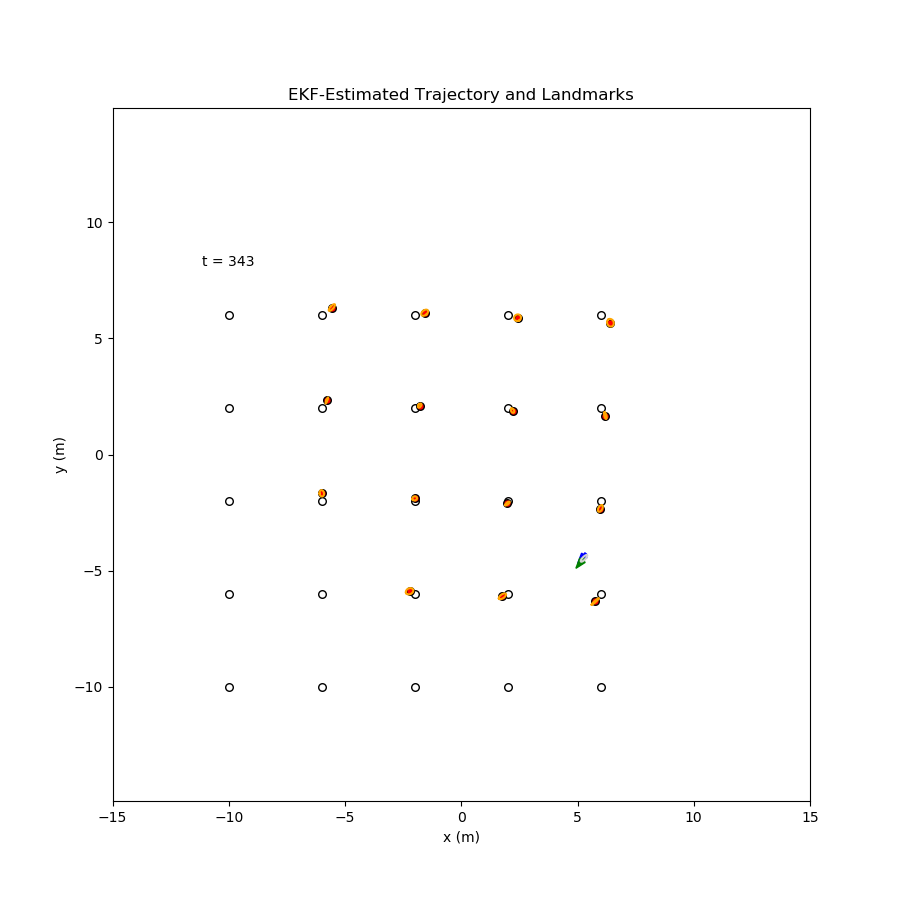
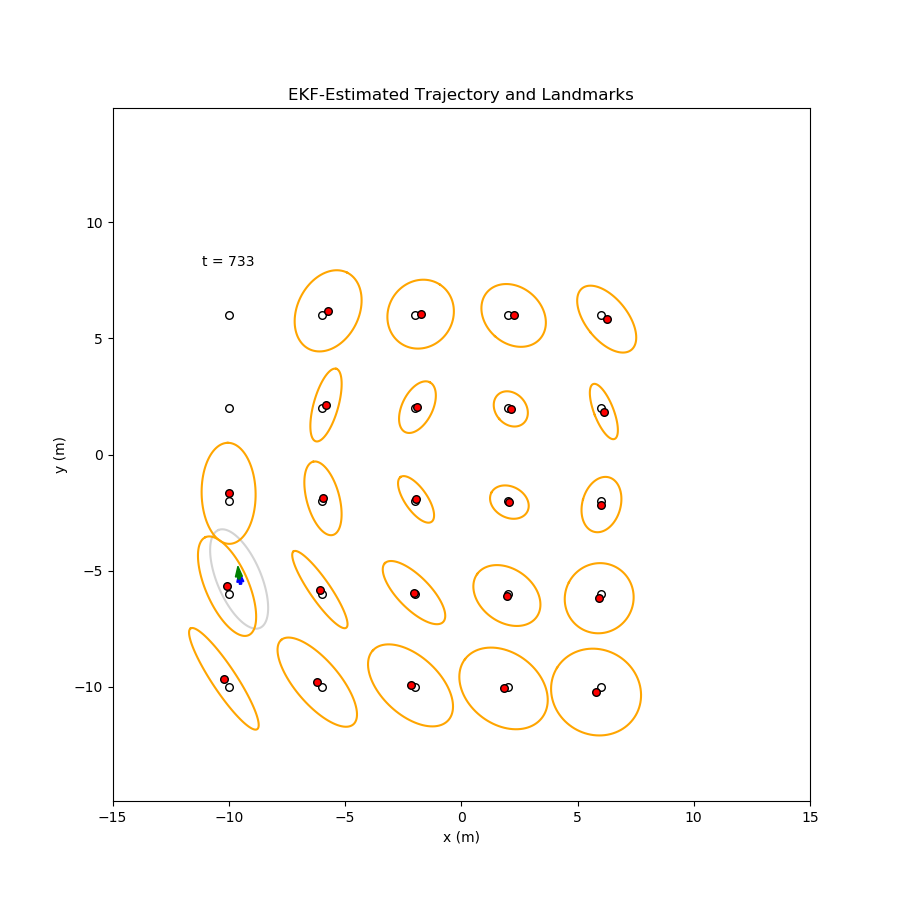
Implement UKF mostly, though it doesn't work. Also simplify EKF insertion step using block().

diff --git a/ekf_ws/src/ukf_pkg/src/ukf.cpp b/ekf_ws/src/ukf_pkg/src/ukf.cpp
@@ -24,6 +24,15 @@ UKF::UKF() {
     this->P_pred(2,2) = 0.005 * 0.005;
     // set jacobians that are constant.
     this->H_w.setIdentity(2,2);
+    // set the sigma stuff to the right starting size.
+    this->X.setZero(3,7);
+    this->Wts = Eigen::VectorXd::Constant(7,(1-this->W_0)/6);
+    this->Wts(0) = this->W_0;
+    // set the expanding process noise.
+    this->Q.setZero(3,3);
+    this->Q(0,0) = this->V(0,0) * cos(this->x_t(2));
+    this->Q(1,1) = this->V(0,0) * sin(this->x_t(2));
+    this->Q(2,2) = this->V(1,1);
 }
 
 // perform a full iteration of the UKF for this timestep.
@@ -33,29 +42,65 @@ void UKF::update(geometry_msgs::Vector3::ConstPtr odomMsg, std_msgs::Float32Mult
 
     ////////////// PREDICTION STAGE /////////////////
     // extract odom.
-    float d_d = odomMsg->x;
-    float d_th = odomMsg->y;
+    float u_d = odomMsg->x;
+    float u_th = odomMsg->y;
 
-    // compute jacobians
-    this->F_x.setIdentity(3+2*this->M, 3+2*this->M);
-    this->F_x(0,2) = -1*d_d*sin(this->x_t(2));
-    this->F_x(1,2) = d_d*cos(this->x_t(2));
-    
-    this->F_v.setZero(3+2*this->M, 2);
-    this->F_v(0,0) = cos(this->x_t(2));
-    this->F_v(1,0) = sin(this->x_t(2));
-    this->F_v(2,1) = 1;
-    // make predictions.
-    this->x_pred = this->x_t;
-    this->x_pred(0) = this->x_t(0) + (d_d+this->v_d)*cos(this->x_t(2));
-    this->x_pred(1) = this->x_t(1) + (d_d+this->v_d)*sin(this->x_t(2));
-    this->x_pred(2) = remainder(this->x_t(2) + d_th + this->v_th, 2*pi);
-    // propagate covariance.
-    this->P_pred = this->F_x * this->P_t * this->F_x.transpose() + this->F_v * this->V * this->F_v.transpose();
+    // get vector length.
+    int n = this->M*2 + 3;
+    // std::cout << "state length n=" << n << std::endl << std::flush;
+    // see if a landmark was been added to the state last iteration.
+    if (this->X.rows() != n) {
+        // expand the size of X matrix.
+        this->X.conservativeResize(n, 1+2*n);
+        // recompute the weights vector.
+        this->Wts.setOnes(1+2*n);
+        this->Wts *= (1-this->W_0)/(2*n);
+        this->Wts(0) = this->W_0;
+        // expand the process noise.
+        this->Q.setZero(n,n);
+        this->Q(0,0) = this->V(0,0) * cos(this->x_t(2));
+        this->Q(1,1) = this->V(0,0) * sin(this->x_t(2));
+        this->Q(2,2) = this->V(1,1);
+    }
+    // get sqrt cov term.
+    this->sqtP = this->P_t;
+    std::cout << "TODO TAKE SQRT OF P_T" << std::endl << std::flush;
+    // this->sqtP = this->P_t.sqrt() * std::sqrt(n/(1-this->W_0));
+    // compute sigma points.
+    this->X.col(0) = this->x_t;
+    for (int i=1; i<=n; ++i) {
+        this->X.col(i) = this->x_t + this->sqtP.col(i-1);
+    }
+    for (int i=1; i<=n; ++i) {
+        this->X.col(i+n) = this->x_t - this->sqtP.col(i-1);
+    }
+    // std::cout << "Computed sigma pts:\n" << this->X << std::endl << std::flush;
+
+    // propagate sigma vectors with motion model f.
+    this->X_pred.setZero(n,2*n+1);
+    for (int i=0; i<2*n+1; ++i) {
+        this->X_pred.col(i) = motionModel(this->X.col(i), u_d, u_th);
+    }
+    // std::cout << "Propagated sigma pts:\n" << this->X_pred << std::endl << std::flush;
+    // compute state mean prediction.
+    this->x_pred.setZero(n);
+    for (int i=0; i<2*n+1; ++i) {
+        this->x_pred += this->Wts(i) * this->X_pred.col(i);
+    }
+    //compute state covariance prediction.
+    this->P_pred.setZero(n, n);
+    for (int i=0; i<2*n+1; ++i) {
+        // std::cout << "i=" << i << std::endl << std::flush;
+        // std::cout << "X_pred col=\n" << this->X_pred.col(i) << std::endl << std::flush;
+        // std::cout << "Q=" << this->Q << std::endl << std::flush;
+        this->P_pred += this->Wts(i) * (this->X_pred.col(i) - this->x_pred) * (this->X_pred.col(i) - this->x_pred).transpose() + this->Q;
+    }
+    // std::cout << "Predicted state x_pred:\n" << this->x_pred << "\nand P_pred:\n" << this->P_pred << std::endl << std::flush;
 
     ///////////////// UPDATE STAGE //////////////////
     std::vector<float> lm_meas = lmMeasMsg->data;
     int num_landmarks = (int) (lm_meas.size() / 3);
+    // std::cout << "landmarks detected: " << num_landmarks << std::endl << std::flush;
     // if there was no detection, skip the update stage.
     if (num_landmarks < 1) {
         this->x_t = this->x_pred;
@@ -69,89 +114,121 @@ void UKF::update(geometry_msgs::Vector3::ConstPtr odomMsg, std_msgs::Float32Mult
         float r = lm_meas[l*3+1];
         float b = lm_meas[l*3+2];
         // check if we have seen this landmark before.
-        int i = -1;
+        int lm_i = -1;
         for (int j=0; j<M; ++j) {
             if (this->lm_IDs[j] == id) {
-                i = j;
+                lm_i = j;
                 break;
             }
         }
-        if (i != -1) { // the landmark was found.
+        if (lm_i != -1) { // the landmark was found.
             //////////// LANDMARK UPDATE ///////////
+            // std::cout << "LM UPDATE" << std::endl << std::flush;
             // get index of this landmark in the state.
-            i = i*2+3;
-            // compute estimated distance from veh to lm.
-            float dist = std::sqrt(std::pow(this->x_t(i) - this->x_pred(0),2) + std::pow(this->x_t(i+1) - this->x_pred(1),2));
-            // create jacobians.
-            this->H_x.setZero(2,2*this->M+3);
-            this->H_x(0,0) = -(this->x_t(i)-this->x_pred(0))/dist;
-            this->H_x(0,1) = -(this->x_t(i+1)-this->x_pred(1))/dist;
-            this->H_x(1,0) = (this->x_t(i+1)-this->x_pred(1))/(dist*dist);
-            this->H_x(1,1) = -(this->x_t(i)-this->x_pred(0))/(dist*dist);
-            this->H_x(1,2) = -1;
-            this->H_x(0,i) = (this->x_t(i)-this->x_pred(0))/dist;
-            this->H_x(0,i+1) = (this->x_t(i+1)-this->x_pred(1))/dist;
-            this->H_x(1,i) = -(this->x_t(i+1)-this->x_pred(1))/(dist*dist);
-            this->H_x(1,i+1) = (this->x_t(i)-this->x_pred(0))/(dist*dist);
-            
-            // compute the innovation.
-            float ang = remainder(atan2(this->x_t(i+1)-this->x_pred(1), this->x_t(i)-this->x_pred(0)) - this->x_pred(2), 2*pi);
-            this->nu(0) = r - dist - this->w_r;
-            this->nu(1) = b - ang - this->w_b;
-            // compute the innovation covariance.
-            this->S = this->H_x * this->P_pred * this->H_x.transpose() + this->H_w * this->W * this->H_w.transpose();
-            // compute the kalman gain.
-            this->K = this->P_pred * this->H_x.transpose() * this->S.inverse();
+            lm_i = lm_i*2+3;
 
-            // update the state.
-            this->x_pred = this->x_pred + this->K * this->nu;
-            this->x_pred(2) = remainder(this->x_pred(2), 2*pi);
-            this->P_pred = this->P_pred - this->K * this->H_x * this->P_pred;
+            // get meas estimate for all sigma points.
+            this->X_zest.setZero(2,2*n+1);
+            for (int i=0; i<2*n+1; ++i) {
+                this->X_zest.col(i) = sensingModel(this->X_pred.col(i), lm_i);
+            }
+            // std::cout << "debug 1" << std::endl << std::flush;
+            // compute overall measurement estimate.
+            this->z_est.setZero(2);
+            for (int i=0; i<2*n+1; ++i) {
+                this->z_est += this->Wts(i) * this->X_zest.col(i);
+            }
+            // std::cout << "debug 2" << std::endl << std::flush;
+            // compute innovation covariance.
+            this->S.setZero(2, 2);
+            for (int i=0; i<2*n+1; ++i) {
+                // std::cout << "X_zest col=" << this->X_zest.col(i) << std::endl << std::flush;
+                // std::cout << "z_est=" << this->z_est << std::endl << std::flush;
+                // std::cout << "W=" << this->W << std::endl << std::flush;
+                this->S += this->Wts(i) * (this->X_zest.col(i) - this->z_est) * (this->X_zest.col(i) - this->z_est).transpose() + this->W;
+            }
+            // std::cout << "debug 3" << std::endl << std::flush;
+            // compute cross covariance b/w x_pred and z_est.
+            this->C.setZero(n,2);
+            for (int i=0; i<2*n+1; ++i) {
+                this->C += this->Wts(i) * (this->X_pred.col(i) - this->x_pred) * (this->X_zest.col(i) - this->z_est).transpose();
+            }
+            // std::cout << "debug 4" << std::endl << std::flush;
+            // compute kalman gain.
+            this->K = this->C * this->S.inverse();
+
+            // std::cout << "debug 5" << std::endl << std::flush;
+            // compute the posterior distribution.
+            this->z(0) = r; this->z(1) = b;
+            this->x_pred = this->x_pred + this->K * (this->z - this->z_est);
+            this->P_pred = this->P_pred - this->K * this->S * this->K.transpose();
+
+            // std::cout << "lm update state:\n" << this->x_pred << "\nand cov:\n" << this->P_pred << std::endl << std::flush;
+
+            // TODO UKF landmark insertion.
         } else { // this is a new landmark.
+            // std::cout << "LM INSERTION" << std::endl << std::flush;
             /////////// LANDMARK INSERTION /////////
             // increment number of landmarks.
-            this->M += 1;
             // resize the state to fit the new landmark.
-            this->x_pred.conservativeResize(3+2*this->M);
-            this->x_pred(3+2*this->M-2) = this->x_pred(0) + r*cos(this->x_pred(2)+b);
-            this->x_pred(3+2*this->M-1) = this->x_pred(1) + r*sin(this->x_pred(2)+b);
+            this->x_pred.conservativeResize(n+2);
+            this->x_pred(n) = this->x_pred(0) + r*cos(this->x_pred(2)+b);
+            this->x_pred(n+1) = this->x_pred(1) + r*sin(this->x_pred(2)+b);
             // add landmark ID to the list.
             this->lm_IDs.push_back(id);
 
-            // compute insertion jacobian.
-            this->Y.setIdentity(3+2*this->M, 3+2*this->M);
-            // G_z submatrix.
-            this->Y(3+2*this->M-2,3+2*this->M-2) = cos(this->x_pred(2)+b);
-            this->Y(3+2*this->M-2,3+2*this->M-1) = -r*sin(this->x_pred(2)+b);
-            this->Y(3+2*this->M-1,3+2*this->M-2) = sin(this->x_pred(2)+b);
-            this->Y(3+2*this->M-1,3+2*this->M-1) = r*cos(this->x_pred(2)+b);
-            // G_x submatrix.
-            this->Y(3+2*this->M-2,0) = 1;
-            this->Y(3+2*this->M-2,1) = 0;
-            this->Y(3+2*this->M-2,2) = -r*sin(this->x_pred(2)+b);
-            this->Y(3+2*this->M-1,0) = 0;
-            this->Y(3+2*this->M-1,1) = 1;
-            this->Y(3+2*this->M-1,2) = r*cos(this->x_pred(2)+b);
+            // expand X_pred in case there's a re-detection also this timestep.
+            this->X_pred.conservativeResize(n+2,2*n+5);
+            this->P_pred.conservativeResize(n+2, n+2);
 
-            // update covariance.
-            this->p1.resize(3+2*this->M-2, 3+2*this->M);
-            this->z1.setZero(3+2*this->M-2, 2);
-            this->p1 << this->P_pred, this->z1;
+            // // compute insertion jacobian.
+            // this->Y.setIdentity(3+2*this->M, 3+2*this->M);
+            // // G_z submatrix.
+            // this->Y(3+2*this->M-2,3+2*this->M-2) = cos(this->x_pred(2)+b);
+            // this->Y(3+2*this->M-2,3+2*this->M-1) = -r*sin(this->x_pred(2)+b);
+            // this->Y(3+2*this->M-1,3+2*this->M-2) = sin(this->x_pred(2)+b);
+            // this->Y(3+2*this->M-1,3+2*this->M-1) = r*cos(this->x_pred(2)+b);
+            // // G_x submatrix.
+            // this->Y(3+2*this->M-2,0) = 1;
+            // this->Y(3+2*this->M-2,1) = 0;
+            // this->Y(3+2*this->M-2,2) = -r*sin(this->x_pred(2)+b);
+            // this->Y(3+2*this->M-1,0) = 0;
+            // this->Y(3+2*this->M-1,1) = 1;
+            // this->Y(3+2*this->M-1,2) = r*cos(this->x_pred(2)+b);
 
-            this->p2.resize(2, 3+2*this->M);
-            this->z2.setZero(2, 3+2*this->M-2);
-            this->p2 << z2, this->W;
-
-            this->p3.resize(3+2*this->M, 3+2*this->M);
-            this->p3 << this->p1, this->p2;
+            // // update covariance.
+            // this->p_temp.setZero(3+2*this->M, 3+2*this->M);
+            // this->p_temp.block(0,0,3+2*this->M-2,3+2*this->M-2) = this->P_pred;
+            // this->p_temp.block(3+2*this->M-2,3+2*this->M-2,2,2) = this->W;
             
-            this->P_pred = this->Y * this->p3 * this->Y.transpose();
+            // this->P_pred = this->Y * this->p_temp * this->Y.transpose();
+
+            // update state size.
+            this->M += 1; n += 2;
         }
     }
     // after all landmarks have been processed, update the state.
     this->x_t = this->x_pred;
     this->P_t = this->P_pred;
     /////////////// END OF UKF ITERATION ///////////////////
+}
+
+Eigen::VectorXd UKF::motionModel(Eigen::VectorXd x, float u_d, float u_th) {
+    Eigen::VectorXd x_pred = x;
+    x_pred(0) = x(0)+(u_d+this->v_d)*std::cos(x(2));
+    x_pred(1) = x(1)+(u_d+this->v_d)*std::sin(x(2));
+    x_pred(2) = remainder(x(2) + u_th + this->v_th, 2*pi);
+    // x_pred.block(3,0,this->M*2,1) = x.block(3,0,this->M*2,1);
+    return x_pred;
+}
+
+Eigen::VectorXd UKF::sensingModel(Eigen::VectorXd x, int lm_i) {
+    Eigen::VectorXd z_est = Eigen::VectorXd::Zero(2);
+    z_est(0) = std::sqrt(std::pow(x(lm_i)-x(0), 2) + std::pow(x(lm_i+1)-x(1), 2)) + this->w_r;
+    // z_est(0) = 3; // TODO REMOVE THIS JUST FOR DEBUG.
+    z_est(1) = std::atan2(x(lm_i+1)-x(1), x(lm_i)-x(0)) - x(2) + this->w_b;
+    // std::cout << "sensingModel got z_est=\n" << z_est << std::endl << std::flush;
+    return z_est;
 }
 
 // return the state as a message.

diff --git a/ekf_ws/src/ukf_pkg/include/ukf_pkg/ukf.h b/ekf_ws/src/ukf_pkg/include/ukf_pkg/ukf.h
@@ -8,6 +8,8 @@
 #include <eigen3/Eigen/Dense>
 #include <vector>
 #include <cmath>
+// #include <unsupported/Eigen/MatrixFunctions>
+
 
 #define pi 3.14159265358979323846
 
@@ -18,6 +20,17 @@ class UKF {
     // state distribution.
     Eigen::VectorXd x_t;
     Eigen::MatrixXd P_t;
+    Eigen::MatrixXd sqtP; // sqrt of P_t for sigma pts calc.
+    // sigma points matrix and weights.
+    Eigen::MatrixXd X; // sigma points.
+    Eigen::VectorXd Wts; // weights for sigma pts.
+    float W_0 = 0.2; // mean weight.
+    Eigen::MatrixXd X_pred; // propagated sigma pts.
+    Eigen::MatrixXd X_zest; // meas ests for each sigma pt.
+    Eigen::VectorXd z_est; // combined z_est.
+    Eigen::MatrixXd C; // cross cov b/w x_pred and z_est.
+    // current measurement.
+    Eigen::VectorXd z = Eigen::VectorXd::Zero(2);
     // predicted state distribution.
     Eigen::VectorXd x_pred;
     Eigen::MatrixXd P_pred;
@@ -29,6 +42,7 @@ class UKF {
     float v_d = 0;
     float v_th = 0;
     Eigen::MatrixXd V;
+    Eigen::MatrixXd Q; // will expand for cov summation.
     // sensing noise.
     float w_r = 0;
     float w_b = 0;
@@ -44,15 +58,13 @@ class UKF {
     Eigen::MatrixXd G_z;
     Eigen::MatrixXd G_x;
     Eigen::MatrixXd Y; //insertion jacobian
-    // intermediary matrices needed to update cov.
-    Eigen::MatrixXd p1;
-    Eigen::MatrixXd z1;
-    Eigen::MatrixXd p2;
-    Eigen::MatrixXd z2;
-    Eigen::MatrixXd p3;
+    // intermediary matrix used to update cov.
+    Eigen::MatrixXd p_temp;
 
     UKF();
     void update(geometry_msgs::Vector3::ConstPtr odomMsg, std_msgs::Float32MultiArray::ConstPtr lmMeasMsg);
+    Eigen::VectorXd motionModel(Eigen::VectorXd x, float u_d, float u_th);
+    Eigen::VectorXd sensingModel(Eigen::VectorXd x, int lm_i);
     ukf_pkg::UKFState getState();
 };
 

diff --git a/ekf_ws/src/ekf_pkg/src/ekf.cpp b/ekf_ws/src/ekf_pkg/src/ekf.cpp
@@ -134,18 +134,11 @@ void EKF::update(geometry_msgs::Vector3::ConstPtr odomMsg, std_msgs::Float32Mult
             this->Y(3+2*this->M-1,2) = r*cos(this->x_pred(2)+b);
 
             // update covariance.
-            this->p1.resize(3+2*this->M-2, 3+2*this->M);
-            this->z1.setZero(3+2*this->M-2, 2);
-            this->p1 << this->P_pred, this->z1;
-
-            this->p2.resize(2, 3+2*this->M);
-            this->z2.setZero(2, 3+2*this->M-2);
-            this->p2 << z2, this->W;
-
-            this->p3.resize(3+2*this->M, 3+2*this->M);
-            this->p3 << this->p1, this->p2;
+            this->p_temp.setZero(3+2*this->M, 3+2*this->M);
+            this->p_temp.block(0,0,3+2*this->M-2,3+2*this->M-2) = this->P_pred;
+            this->p_temp.block(3+2*this->M-2,3+2*this->M-2,2,2) = this->W;
             
-            this->P_pred = this->Y * this->p3 * this->Y.transpose();
+            this->P_pred = this->Y * this->p_temp * this->Y.transpose();
         }
     }
     // after all landmarks have been processed, update the state.

diff --git a/ekf_ws/src/ekf_pkg/include/ekf_pkg/ekf.h b/ekf_ws/src/ekf_pkg/include/ekf_pkg/ekf.h
@@ -44,12 +44,8 @@ class EKF {
     Eigen::MatrixXd G_z;
     Eigen::MatrixXd G_x;
     Eigen::MatrixXd Y; //insertion jacobian
-    // intermediary matrices needed to update cov.
-    Eigen::MatrixXd p1;
-    Eigen::MatrixXd z1;
-    Eigen::MatrixXd p2;
-    Eigen::MatrixXd z2;
-    Eigen::MatrixXd p3;
+    // intermediary matrix used to update cov.
+    Eigen::MatrixXd p_temp;
 
     EKF();
     void update(geometry_msgs::Vector3::ConstPtr odomMsg, std_msgs::Float32MultiArray::ConstPtr lmMeasMsg);
